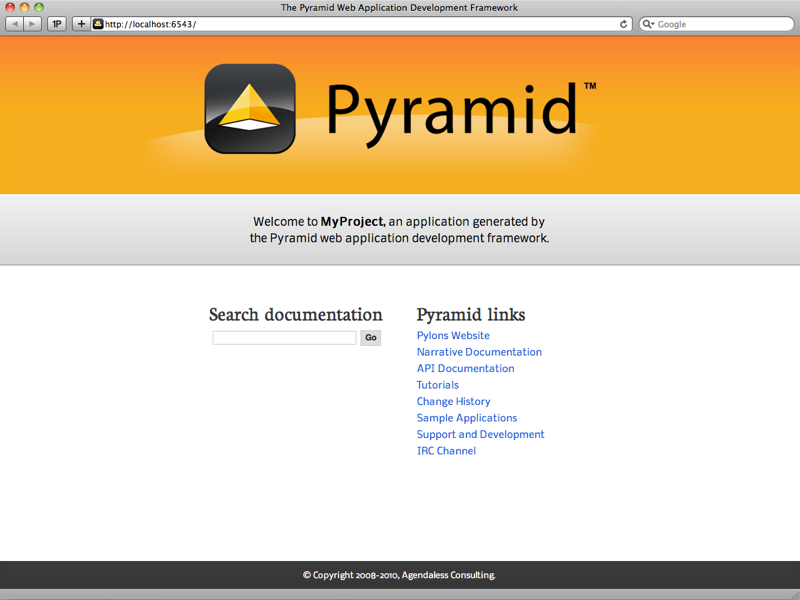
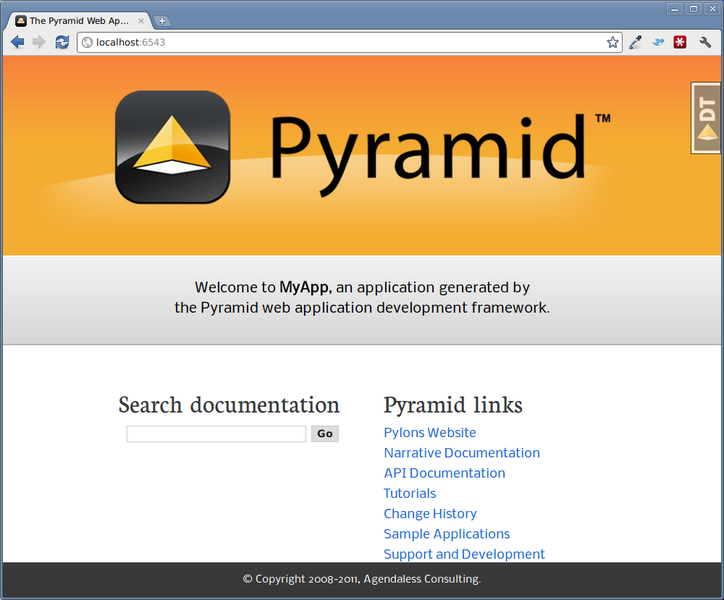
fix project.rst to deal with scaffold changes

diff --git a/narr/MyProject/setup.py b/narr/MyProject/setup.py
@@ -6,7 +6,7 @@ here = os.path.abspath(os.path.dirname(__file__))
 README = open(os.path.join(here, 'README.txt')).read()
 CHANGES = open(os.path.join(here, 'CHANGES.txt')).read()
 
-requires = ['pyramid', 'WebError']
+requires = ['pyramid', 'pyramid_debugtoolbar', 'WebError']
 
 setup(name='MyProject',
       version='0.0',

diff --git a/narr/project.rst b/narr/project.rst
@@ -99,18 +99,18 @@ We'll choose the ``pyramid_starter`` scaffold for this purpose.
 
    $ bin/paster create -t pyramid_starter
 
-The above command uses the ``paster create`` command to create a project with the
-``pyramid_starter`` scaffold.  To use a different scaffold, such as
+The above command uses the ``paster create`` command to create a project with
+the ``pyramid_starter`` scaffold.  To use a different scaffold, such as
 ``pyramid_routesalchemy``, you'd just change the last argument.  For example:
 
 .. code-block:: text
 
    $ bin/paster create -t pyramid_routesalchemy
 
-``paster create`` will ask you a single question: the *name* of the
-project.  You should use a string without spaces and with only letters
-in it.  Here's sample output from a run of ``paster create`` for a
-project we name ``MyProject``:
+``paster create`` will ask you a single question: the *name* of the project.
+You should use a string without spaces and with only letters in it.  Here's
+sample output from a run of ``paster create`` for a project we name
+``MyProject``:
 
 .. code-block:: text
 
@@ -309,6 +309,23 @@ browser like what is displayed in the following image:
 This is the page shown by default when you visit an unmodified ``paster
 create`` -generated ``pyramid_starter`` application in a browser.
 
+If you click on the image shown at the right hand top of the page ("^DT"),
+you'll be presented with a debug toolbar that provides various niceties while
+you're developing.  This image will float above every HTML page served by
+:app:`Pyramid` while you develop an application, and allows you show the
+toolbar as necessary.  Click on ``Hide`` to hide the toolbar and show the
+image again.
+
+.. image:: project-debug.png
+
+For more information about what the debug toolbar allows you to do, see `the
+documentation for pyramid_debugtoolbar
+<http://docs.pylonsproject.org/projects/pyramid_debugtoolbar/dev/>`_.
+
+The debug toolbar will not be shown (and all debugging will be turned off)
+when you use the ``production.ini`` file instead of the ``development.ini``
+ini file to run the application.
+
 .. sidebar:: Using an Alternate WSGI Server
 
    The code generated by a :app:`Pyramid` scaffold assumes that you
@@ -419,8 +436,6 @@ serve``, as well as the deployment settings provided to that application.
 
 The generated ``development.ini`` file looks like so:
 
-.. latexbroken?
-
 .. literalinclude:: MyProject/development.ini
    :language: ini
    :linenos:
@@ -489,6 +504,14 @@ information.
    options should be turned off for production applications, as template
    rendering is slowed when either is turned on.
 
+The ``pyramid.include`` setting in the ``[app:MyProject]`` section tells
+Pyramid to "include" configuration from another package.  In this case, the
+line ``pyramid.include = pyramid_debugtoolbar`` tells Pyramid to include
+configuration from the ``pyramid_debugtoolbar`` package.  This turns on a
+debugging panel in development mode which will be shown on the right hand
+side of the screen.  Including the debug toolbar will also make it possible
+to interactively debug exceptions when an error occurs.
+
 Various other settings may exist in this section having to do with debugging
 or influencing runtime behavior of a :app:`Pyramid` application.  See
 :ref:`environment_chapter` for more information about these settings.
@@ -543,11 +566,13 @@ implementations.
 
 The ``production.ini`` file is a :term:`PasteDeploy` configuration file with
 a purpose much like that of ``development.ini``.  However, it disables the
-WebError interactive debugger, replacing it with a logger which outputs
-exception messages to ``stderr`` by default.  It also turns off template
-development options such that templates are not automatically reloaded when
-changed, and turns off all debugging options.  You can use this file instead
-of ``development.ini`` when you put your application into production.
+debug toolbar, replacing it with a logger which outputs exception messages to
+``stderr`` by default.  It also turns off template development options such
+that templates are not automatically reloaded when changed, and turns off all
+debugging options.  It allows you to configure a ``weberror#error_catcher``
+section that will cause exceptions to be sent to an email address when they
+are uncaught.  You can use this file instead of ``development.ini`` when you
+put your application into production.
 
 .. index::
    single: MANIFEST.in
